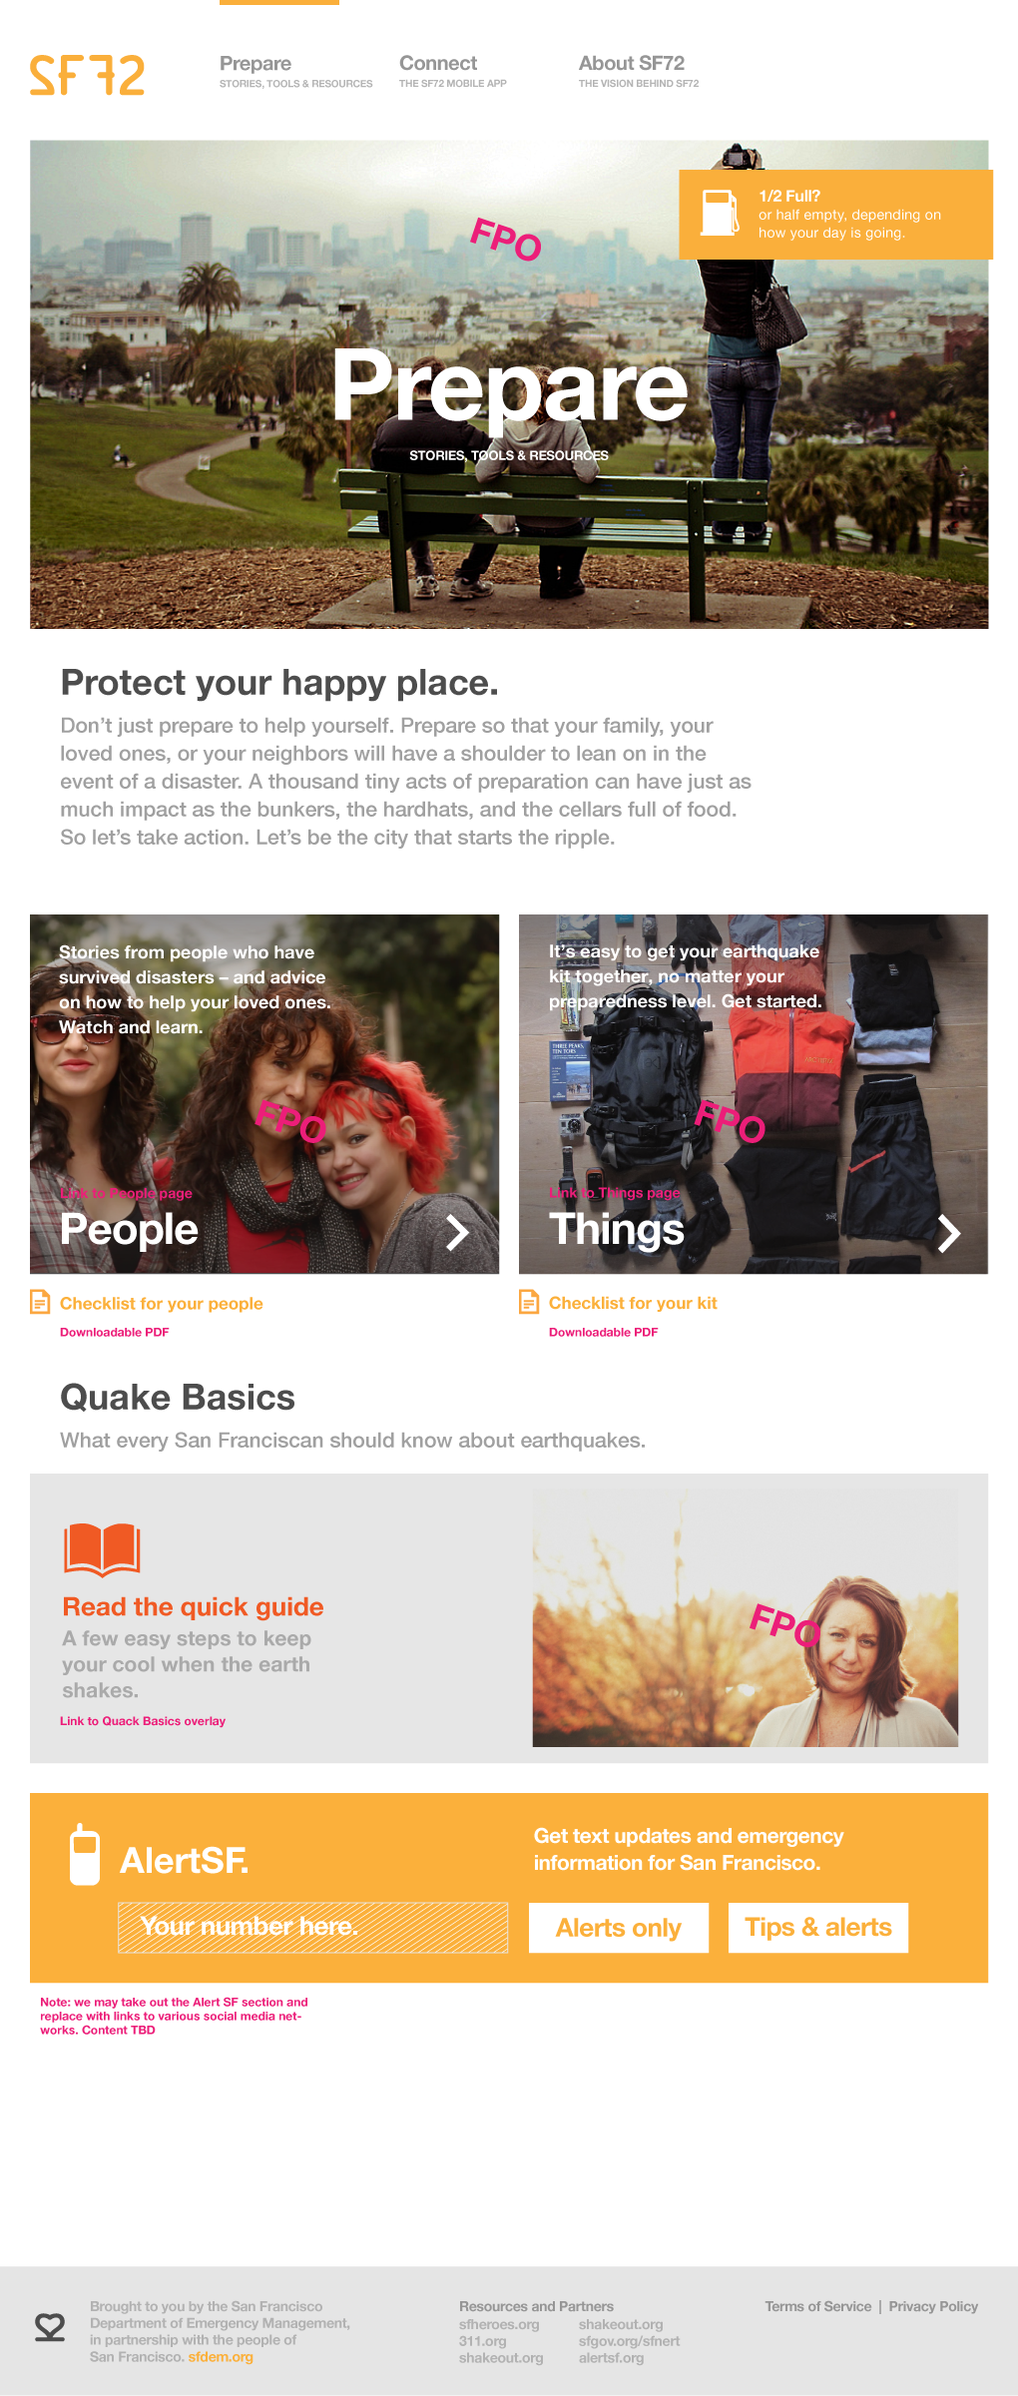
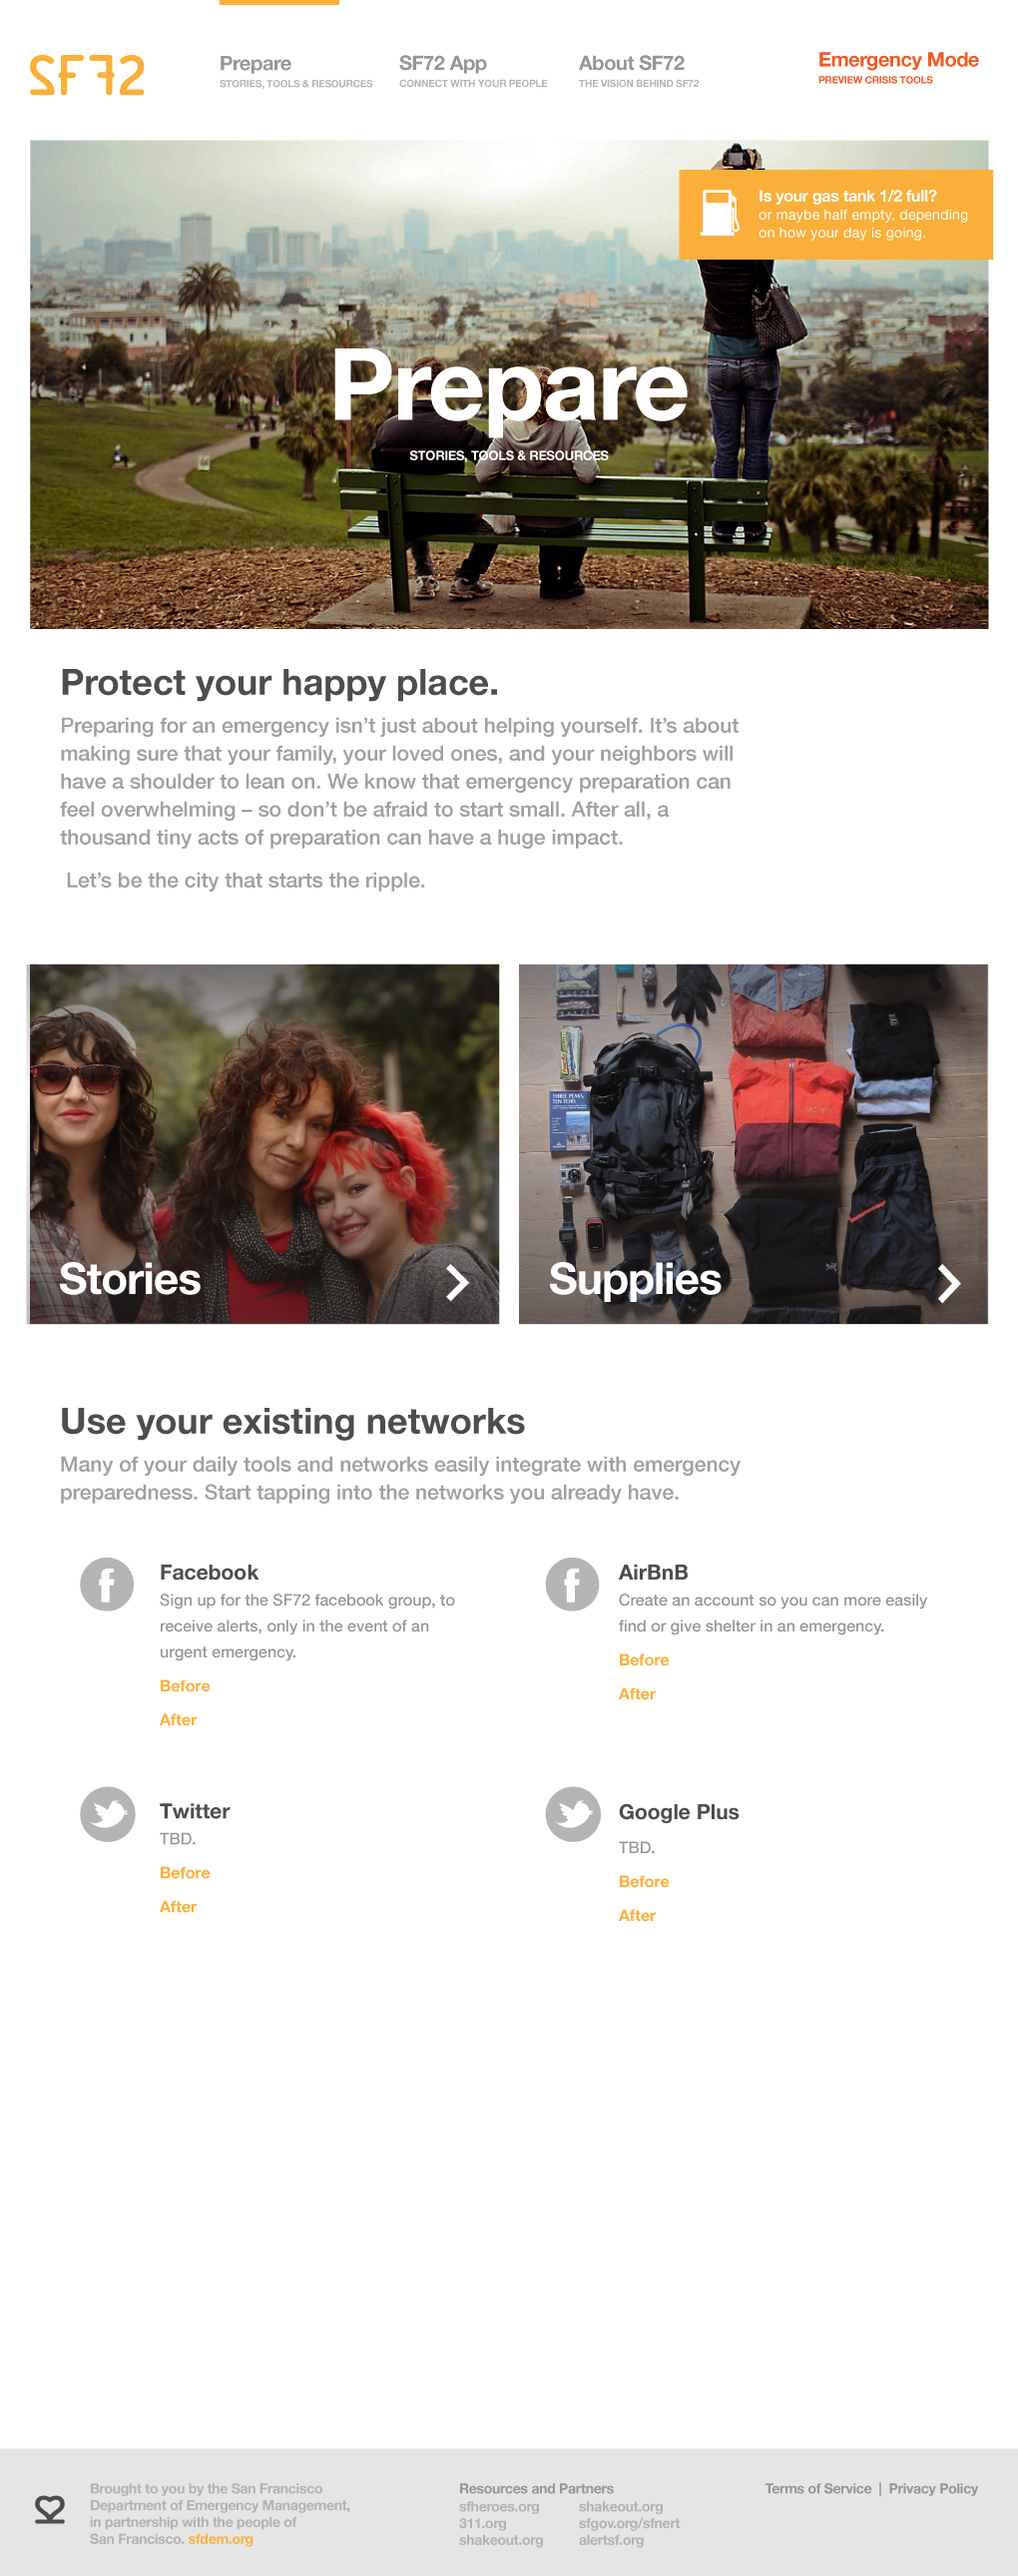
prepare layout changes

diff --git a/app/assets/stylesheets/application.scss b/app/assets/stylesheets/application.scss
@@ -1177,47 +1177,12 @@ a.checklist:before {
 	@include omega;
 }
 
-.quick-guide-trigger {
-	padding-top: 4.9rem;
-	position: relative;
-
-	h3 {
-		margin: 0;
-		color: $highlight-dark;
-	}
-
-	p {
-		padding-right: 10rem;
-		margin-top: 0;
-		font-family: $font-medium;
-		font-size: 1.3em;
-		line-height: 1.25em;
-		color: $body-light;
-	}
-}
-
-.quick-guide-trigger:before {
-	font-family: "sf72-icons";
-	content: "1";
-	position: absolute;
-	top: 0;
-	font-size: 3.47rem;
-	color: $highlight-dark;
-}
-
-.video-future {
-	margin: 0 0 0.2rem 0.8rem;
-	background-color: #FBB03B;
-	width: 427px;
-	height: 213px;
-}
-
 .basics-video strong {
 	padding-left: 0.8rem;
 	font-family: $font-medium;
 	color: $dark-grey;
 }
-
+/*
 .alert-sf-block {
 	background-color: $highlight;
 	padding: 1.2rem;
@@ -1282,6 +1247,7 @@ a.checklist:before {
 	left: 2.5rem;
 	font-size: 4rem;
 }
+*/
 
 .basics .modal-bg,
 .basics .modal {
@@ -1316,6 +1282,66 @@ a.checklist:before {
 	z-index: 2;
 */
 
+.existing-networks {
+
+	margin-left: 1.8rem;
+
+	h2 {
+		margin: 4.8rem 0 0;
+		color: $dark-grey;
+		font-size: 2.2rem;
+	}
+
+	.intro-networks {
+		margin: 0 11rem 0 0;
+		line-height: 1.35;
+		font-size: 1.3rem;
+	}
+
+	.networks-list {
+		@include outer-container;
+
+		li {
+			@include span-columns(6);
+			@include omega(2n);
+			padding: 0.9rem 3.3rem 0 6.3rem;
+			height: 15rem;
+			position: relative;
+		}
+
+		h3 {
+			font-size: 1.25rem;
+			color: $dark-grey;
+			margin-bottom: 0;
+		}
+
+		p {
+			margin: 0 0 0.5rem;
+		}
+
+		a {
+			display: block;
+			margin-bottom: 0.5rem;
+		}
+
+		li:before {
+			position: absolute;
+			top: 1.3rem;
+			left: 1.4rem;
+			font-family: "sf72-icons";
+			font-size: 3.3rem;
+			color: $body-light;
+		}
+
+		li.facebook:before {content: "v";}
+		li.airbnb:before {content: "v";}
+		li.twitter:before {content: "w";}
+		li.gplus:before {content: "w";}
+	}
+}
+
+
+
 .quick-guide {
 	margin: 0;
 	padding: 0;
@@ -1323,7 +1349,7 @@ a.checklist:before {
 	
 	h2 {
 		margin: -0.3rem 0 0;
-		font-size: 2.2rem;
+		font-size: 2rem;
 		line-height: 1;
 		color: $dark-grey;
 	}
@@ -1337,10 +1363,10 @@ a.checklist:before {
 		content: counter(list-counter);
 		counter-increment: list-counter;
 		float: left;
-		margin-left:-7.9rem;
-		padding: 0.5rem 1.8rem;
+		margin: -0.3rem 0 0 -7rem;
+		padding: 0.5rem 1.5rem;
 		font-family: $font-medium;
-		font-size: 2.2rem;
+		font-size: 2rem;
 		color: #FFF;
 		background-color: $highlight-dark;
 		border-radius: 50%;
@@ -1348,8 +1374,8 @@ a.checklist:before {
 
 	p {
 		margin: 0.4rem 0 0;
-		font-size: 1.3rem;
-		line-height: 1.7rem;
+		font-size: 1.2rem;
+		line-height: 1.6rem;
 	}
 }
 
@@ -1379,7 +1405,7 @@ a.checklist:before {
 }
 
 .quick-guide-page .quick-guide {
-	margin: 0 7rem 0 3.9rem;
+	margin: 0 9rem 0 3.9rem;
 }
 
 .quick-guide-page .basics {
@@ -1393,14 +1419,14 @@ a.checklist:before {
 
 	> h2 {
 		margin: 0.1rem 11.8rem 0;
-		font-size: 2.2rem;
+		font-size: 2rem;
 		color: $highlight-dark;
 	}
 }
 
 .quick-guide-page .quick-guide {
 	li {
-		margin-bottom: 4.5rem;
+		margin-bottom: 2.5rem;
 	}
 }
 
